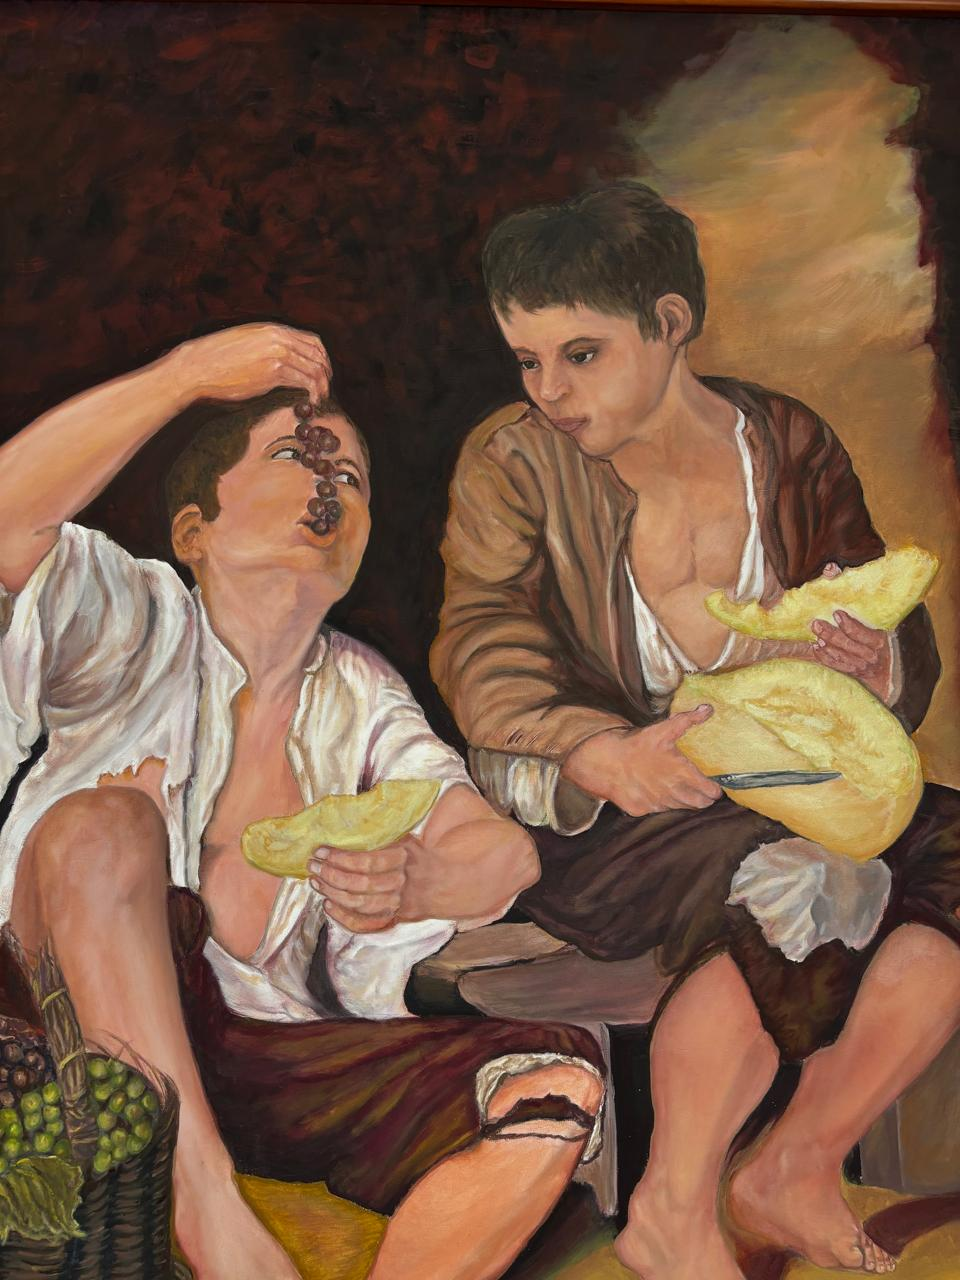
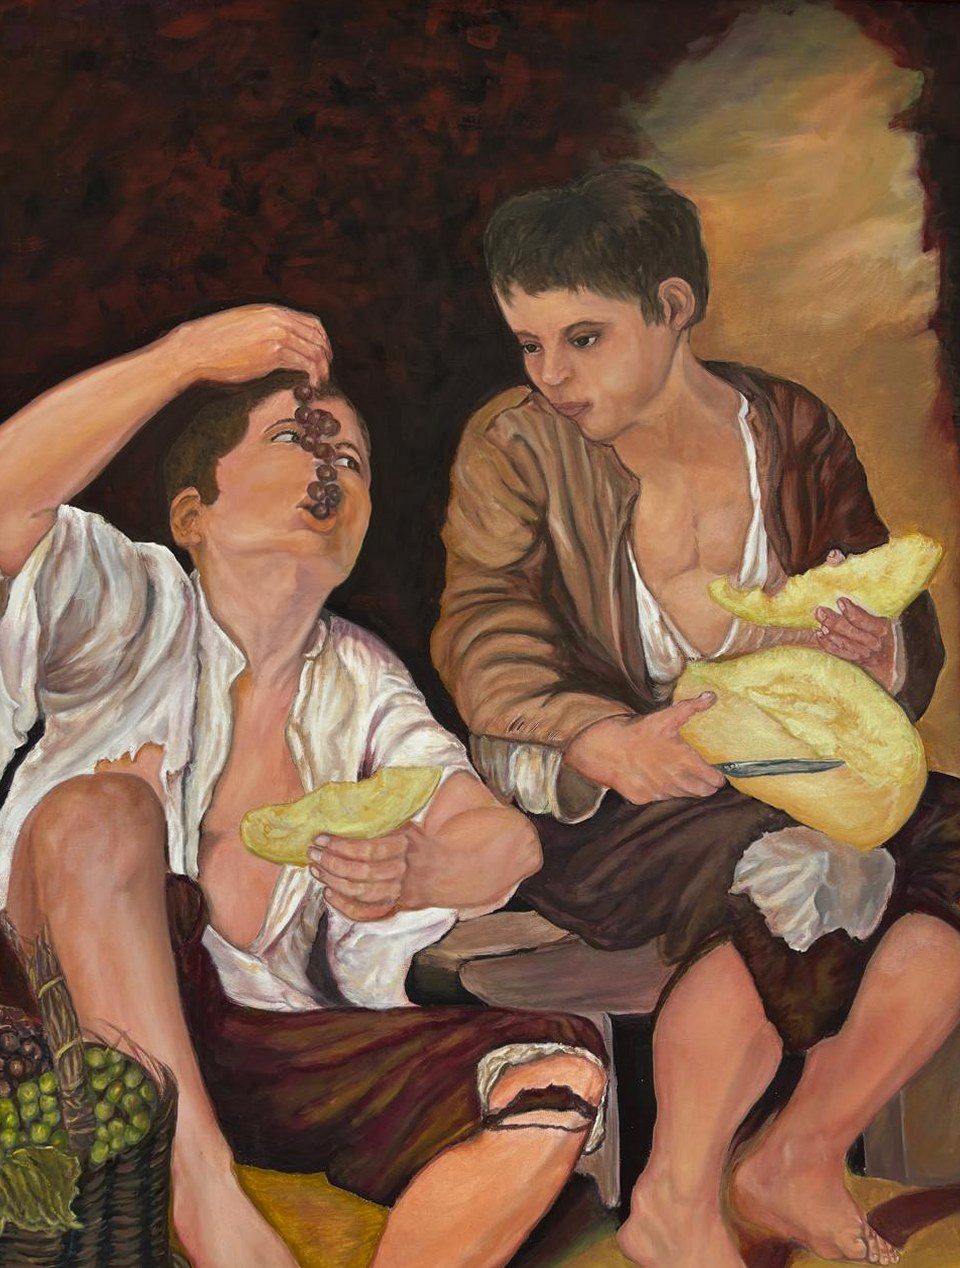
Enderezar y recortar las fotografías de las obras
- Corrección de perspectiva en las fotos inclinadas
- Recorte de bordes de marco y fondo que se veían en las orillas
- Medidas de las imágenes actualizadas en la página

diff --git a/index.html b/index.html
@@ -842,7 +842,7 @@
 
         <figure class="hero-obra revelar">
           <div class="marco">
-            <img src="imagenes/2.jpeg" width="1280" height="960" alt="Pareja de campesinos de pie en un campo al atardecer, con la cabeza inclinada en oración; al fondo, el campanario de una iglesia." fetchpriority="high">
+            <img src="imagenes/2.jpeg" width="1198" height="940" alt="Pareja de campesinos de pie en un campo al atardecer, con la cabeza inclinada en oración; al fondo, el campanario de una iglesia." fetchpriority="high">
           </div>
           <figcaption class="placa">
             <strong>El Ángelus</strong>
@@ -912,7 +912,7 @@
         <div class="revelar">
           <div class="marco marco--oscuro">
             <div class="lupa-zona" id="lupaZona">
-              <img src="imagenes/8.jpeg" width="1280" height="960" loading="lazy" alt="Árbol seco de ramas retorcidas frente a una gran luna llena con un conejo sugerido en su superficie, sobre un cielo nocturno de círculos azules y montañas al fondo.">
+              <img src="imagenes/8.jpeg" width="1268" height="960" loading="lazy" alt="Árbol seco de ramas retorcidas frente a una gran luna llena con un conejo sugerido en su superficie, sobre un cielo nocturno de círculos azules y montañas al fondo.">
               <div class="lupa" id="lupa" aria-hidden="true"></div>
             </div>
           </div>
@@ -1091,19 +1091,19 @@
     const OBRAS = [
       { id: 1, src: 'imagenes/1.jpeg', w: 1280, h: 960, sala: 'tierra', titulo: 'Sembrando papas', referencia: 'Versión libre según Jean‑François Millet',
         alt: 'Un campesino abre la tierra con un azadón mientras una mujer con delantal deja caer semillas, bajo árboles de copa dorada.' },
-      { id: 2, src: 'imagenes/2.jpeg', w: 1280, h: 960, sala: 'tierra', titulo: 'El Ángelus', referencia: 'Versión libre según Jean‑François Millet',
+      { id: 2, src: 'imagenes/2.jpeg', w: 1198, h: 940, sala: 'tierra', titulo: 'El Ángelus', referencia: 'Versión libre según Jean‑François Millet',
         alt: 'Pareja de campesinos de pie en un campo al atardecer, con la cabeza inclinada en oración; al fondo, el campanario de una iglesia.' },
       { id: 4, src: 'imagenes/4.jpeg', w: 1280, h: 960, sala: 'tierra', titulo: 'Las espigadoras', referencia: 'Versión libre según Jean‑François Millet',
         alt: 'Tres mujeres inclinadas recogen espigas en un campo de trigo dorado; al fondo, almiares y una carreta.' },
-      { id: 3, src: 'imagenes/3.jpeg', w: 960, h: 1280, sala: 'claroscuro', titulo: 'Niños comiendo uvas y melón', referencia: 'Versión libre según Bartolomé Esteban Murillo',
+      { id: 3, src: 'imagenes/3.jpeg', w: 960, h: 1268, sala: 'claroscuro', titulo: 'Niños comiendo uvas y melón', referencia: 'Versión libre según Bartolomé Esteban Murillo',
         alt: 'Dos niños sentados comen uvas y una rebanada de melón, iluminados desde la izquierda sobre un fondo oscuro.' },
-      { id: 5, src: 'imagenes/5.jpeg', w: 1280, h: 960, sala: 'claroscuro', titulo: 'Cristo con la cruz a cuestas', referencia: 'Versión libre según Tiziano',
+      { id: 5, src: 'imagenes/5.jpeg', w: 1280, h: 910, sala: 'claroscuro', titulo: 'Cristo con la cruz a cuestas', referencia: 'Versión libre según Tiziano',
         alt: 'Cristo carga el madero de la cruz y gira el rostro hacia el espectador; detrás, en penumbra, un hombre mayor le ayuda.' },
-      { id: 7, src: 'imagenes/7.jpeg', w: 960, h: 1280, sala: 'claroscuro', titulo: 'Caridad romana', referencia: 'En la tradición tenebrista',
+      { id: 7, src: 'imagenes/7.jpeg', w: 960, h: 1258, sala: 'claroscuro', titulo: 'Caridad romana', referencia: 'En la tradición tenebrista',
         alt: 'Una mujer vestida de rojo sostiene una vela y se inclina hacia un anciano encarcelado, en una escena de luz intensa y fondo oscuro.' },
-      { id: 6, src: 'imagenes/6.jpeg', w: 960, h: 1280, sala: 'raices', titulo: 'Mujer con calabaza', referencia: 'Óleo sobre lienzo',
+      { id: 6, src: 'imagenes/6.jpeg', w: 950, h: 1264, sala: 'raices', titulo: 'Mujer con calabaza', referencia: 'Óleo sobre lienzo',
         alt: 'Mujer joven de trenza larga y blusa bordada sonríe sosteniendo media calabaza, frente a unos nopales y un cielo de atardecer.' },
-      { id: 8, src: 'imagenes/8.jpeg', w: 1280, h: 960, sala: 'raices', titulo: 'Luna de conejo', referencia: 'Óleo sobre lienzo',
+      { id: 8, src: 'imagenes/8.jpeg', w: 1268, h: 960, sala: 'raices', titulo: 'Luna de conejo', referencia: 'Óleo sobre lienzo',
         alt: 'Árbol seco de ramas retorcidas frente a una gran luna llena con un conejo sugerido, sobre un cielo nocturno de círculos azules.' }
     ];
 
